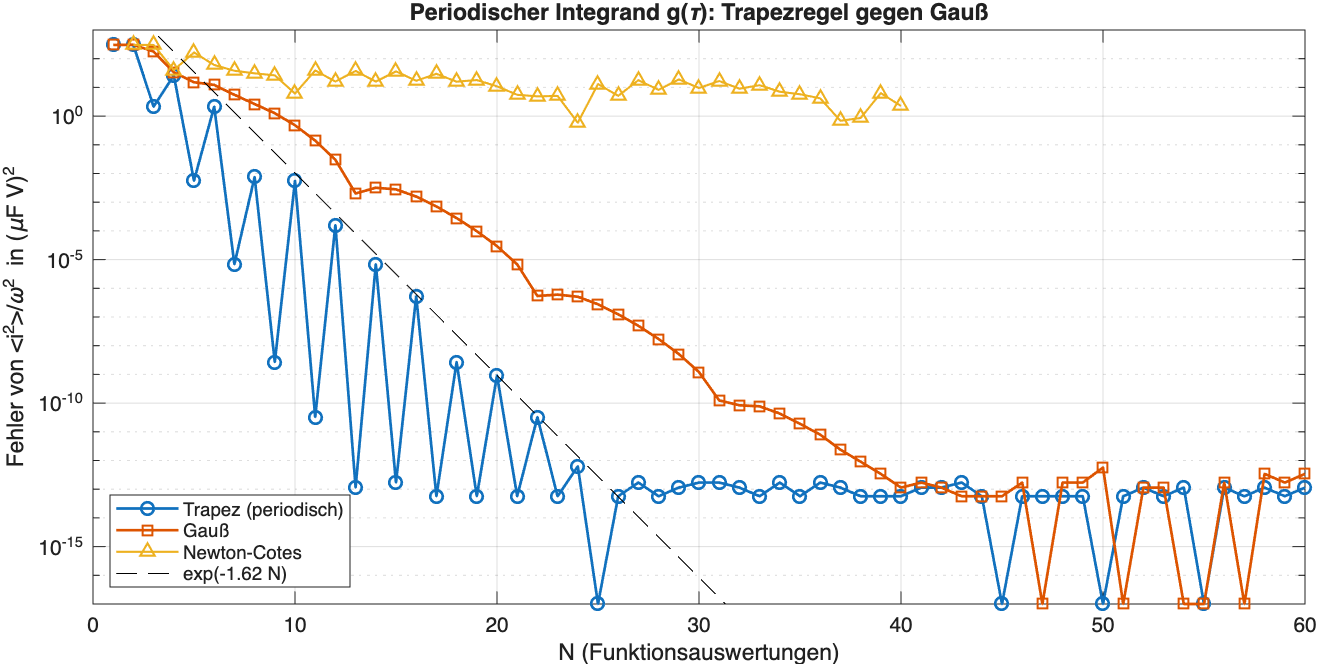
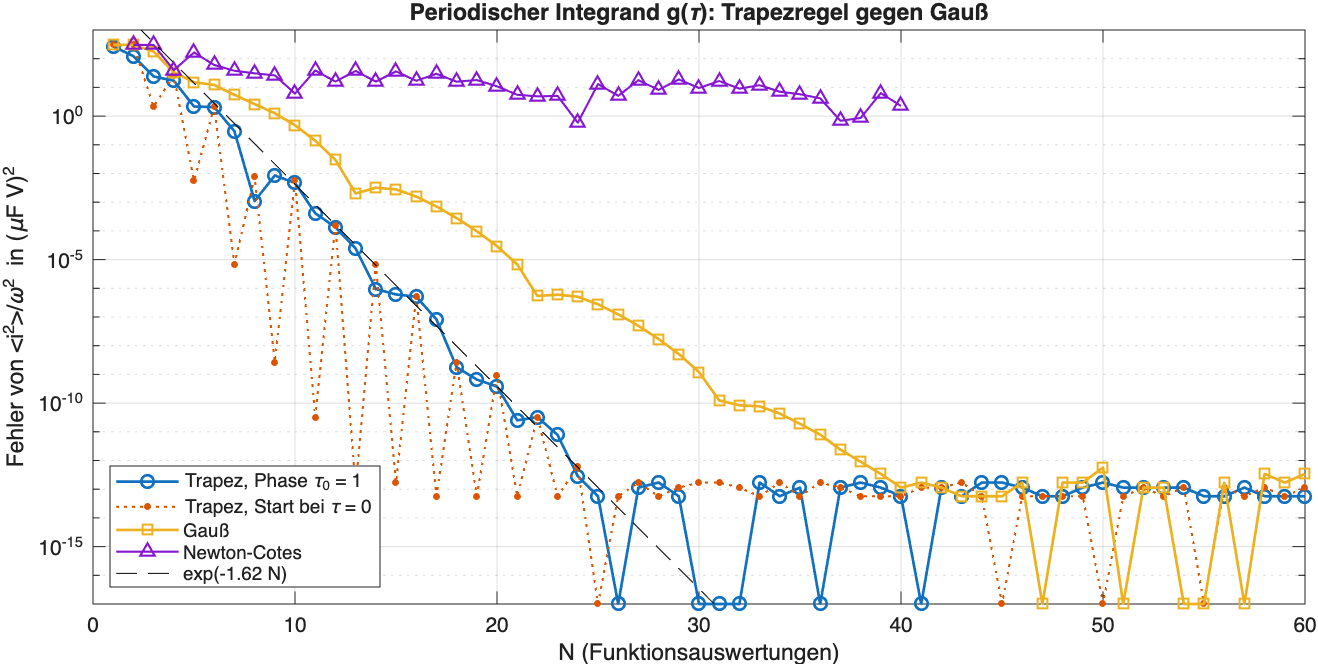
Aufgabe 5: Trapezregel mit allgemeiner Phase bewerten
g(tau) = G(sin tau) enthält nur cos(2m tau)- und sin((2m+1) tau)-Anteile.
Bei Abtastung ab tau = 0 sind die sin-Anteile unsichtbar, und für ungerades N
fällt der Fehler wie exp(-2sN) statt exp(-sN) (z. B. 3e-11 bei N = 11, aber
1.6e-4 bei N = 12). Die bisherige Aussage "Fehler < 1e-10 mit N = 11" war
daher ein Symmetrie-Artefakt.

- Bewertung mit Phase tau0 = 1, tau = 0 zusätzlich als eigene Kurve
- Fit der Rate für tau0 = 0, ungerade N: exp(-3.24 N), Theorie exp(-2sN) = exp(-3.245 N)
- "Fehler < tol" zählt jetzt ab dem N, ab dem der Fehler dauerhaft unter tol bleibt
- README und ERKLAERUNG_RU entsprechend korrigiert, Plot neu erzeugt

diff --git a/aufgabe5.m b/aufgabe5.m
@@ -20,12 +20,20 @@ Iref  = integral(g, 0, T, 'AbsTol', 1e-14, 'RelTol', 1e-13) / T;
 Iref2 = mean(g((0:4095)' * T/4096));
 fprintf('Referenz <i^2>/w^2 = %.12f  (Trapez N=4096: %.12f, Differenz %.1e)\n\n', Iref, Iref2, abs(Iref - Iref2));
 
+% Achtung Symmetrie: g(tau) = G(sin tau), daher enthält die Fourier-Reihe nur cos(2m tau) und
+% sin((2m+1) tau). Startet die Abtastung bei tau = 0, liegen alle Punkte in den Nullstellen der
+% sin-Anteile -> diese sind unsichtbar, und für ungerades N ist die erste "aliasende" Frequenz 2N
+% statt N (Fehler ~ exp(-2sN) statt exp(-sN)). Das ist ein Artefakt der Phase, kein Vorteil der
+% Methode. Für die Bewertung wird deshalb eine allgemeine Phase tau0 verwendet.
+tau0 = 1;
+
 Ns = 1:60;
-eT = nan(size(Ns));  eG = nan(size(Ns));  eN = nan(size(Ns));
+eT = nan(size(Ns));  eT0 = nan(size(Ns));  eG = nan(size(Ns));  eN = nan(size(Ns));
 for N = Ns
-    % Periodische Trapezregel: N Punkte tau_j = j*T/N, alle Gewichte T/N
+    % Periodische Trapezregel: N Punkte tau_j = tau0 + j*T/N, alle Gewichte T/N
     tau = (0:N-1)' * T / N;
-    eT(N) = abs(mean(g(tau)) - Iref);
+    eT(N)  = abs(mean(g(tau0 + tau)) - Iref);   % allgemeine Phase
+    eT0(N) = abs(mean(g(tau)) - Iref);          % Start bei tau = 0 (symmetrische Abtastung)
 
     % Gauß-Legendre mit N Punkten auf [0, T]
     [xh, wh] = gauss_formel(N);
@@ -46,31 +54,36 @@ s = min(abs(imag(tau_pol)));
 fprintf('Konvergenzstreifen: s = %.4f  ->  Trapezfehler ~ exp(-s*N): Faktor %.3f pro Punkt\n', s, exp(-s));
 
 % Gemessene Rate (Fit für N >= 14, oberhalb des Rundungsbodens; davor noch nicht asymptotisch)
-bereich = Ns(eT > 1e-12 & Ns >= 14);
+bereich = Ns(eT > 1e-12 & Ns >= 8);
 p = polyfit(bereich, log(eT(bereich)), 1);
-fprintf('gemessene Rate Trapez: exp(%.3f*N)  (Faktor %.3f pro Punkt)\n', p(1), exp(p(1)));
+fprintf('gemessene Rate Trapez (tau0 = %g):         exp(%.3f*N)  (Faktor %.3f pro Punkt)\n', tau0, p(1), exp(p(1)));
+bereich0 = Ns(eT0 > 1e-12 & Ns >= 5 & mod(Ns, 2) == 1);
+p0 = polyfit(bereich0, log(eT0(bereich0)), 1);
+fprintf('gemessene Rate Trapez (tau0 = 0, N ungerade): exp(%.3f*N)  (Theorie exp(-2sN) = exp(%.3f*N))\n', p0(1), -2*s);
+fprintf('Trapez tau0 = 0, N gerade: Fehler(2N) = Fehler(N ungerade), z. B. e(10) = %.2e, e(5) = %.2e\n', eT0(10), eT0(5));
 bereichG = Ns(eG > 1e-12 & Ns >= 14);
 pG = polyfit(bereichG, log(eG(bereichG)), 1);
 fprintf('gemessene Rate Gauß:   exp(%.3f*N)  (Faktor %.3f pro Punkt)\n\n', pG(1), exp(pG(1)));
 
-fprintf('  N | Trapez     | Gauß       | Newton-Cotes\n');
-for N = [4 8 12 16 20 24 28 32 40]
-    fprintf('%3d | %.3e | %.3e | %.3e\n', N, eT(N), eG(N), eN(N));
+fprintf('  N | Trapez     | Trapez t0=0 | Gauß       | Newton-Cotes\n');
+for N = [4 5 8 9 11 12 16 20 24 28 32 40]
+    fprintf('%3d | %.3e | %.3e   | %.3e | %.3e\n', N, eT(N), eT0(N), eG(N), eN(N));
 end
-% Punkte bis Fehler < 1e-10 / 1e-13
-for tolx = [1e-6 1e-10 1e-13]
-    nT = find(eT < tolx, 1);  nG = find(eG < tolx, 1);
-    fprintf('Fehler < %.0e:  Trapez N = %d,  Gauß N = %d\n', tolx, nT, nG);
+% Punkte, ab denen der Fehler dauerhaft unter tol bleibt
+ab = @(e, tolx) find(e >= tolx, 1, 'last') + 1;
+for tolx = [1e-6 1e-10 1e-12]
+    fprintf('Fehler dauerhaft < %.0e:  Trapez N = %d,  Gauß N = %d\n', tolx, ab(eT, tolx), ab(eG, tolx));
 end
 
 figure('Name', 'Aufgabe 5 (D)', 'Position', [100 100 1000 450]);
 semilogy(Ns, max(eT, 1e-17), 'o-', 'LineWidth', 1.3); hold on;
+semilogy(Ns, max(eT0, 1e-17), '.:', 'LineWidth', 1.0, 'MarkerSize', 10);
 semilogy(Ns, max(eG, 1e-17), 's-', 'LineWidth', 1.3);
 eNp = eN; eNp(~isnan(eN)) = max(eN(~isnan(eN)), 1e-17);
 semilogy(Ns, eNp, '^-', 'LineWidth', 1.0);
 semilogy(Ns, eT(20) * exp(-s*(Ns - 20)), 'k--');
 grid on; ylim([1e-17 1e3]);
 xlabel('N (Funktionsauswertungen)'); ylabel('Fehler von <i^2>/\omega^2  in (\muF V)^2');
-legend('Trapez (periodisch)', 'Gauß', 'Newton-Cotes', sprintf('exp(-%.2f N)', s), 'Location', 'southwest');
+legend(sprintf('Trapez, Phase \\tau_0 = %g', tau0), 'Trapez, Start bei \tau = 0', 'Gauß', 'Newton-Cotes', sprintf('exp(-%.2f N)', s), 'Location', 'southwest');
 title('Periodischer Integrand g(\tau): Trapezregel gegen Gauß');
 speichere_plot('a5_periodisch.png');

diff --git a/README.md b/README.md
@@ -33,4 +33,4 @@ Die Plots landen in `plots/`.
 - **Aufgabe 1/2:** Gauß: gemessener Grad = 2N−1, Σ|wᵢ| = 2 für alle N (alle wᵢ > 0). Newton-Cotes: Grad N (N ungerade) bzw. N−1 (N gerade), aber Σ|wᵢ| wächst exponentiell (N=20: 126, N=40: 1.6·10⁷), Vorzeichenwechsel in den Gewichten. Ab N≈19 (tol 1e-14) bzw. N≈34 (tol 1e-10) zeigen die Monome bei NC nur noch Rundungsverstärkung (ε·Σ|w|). Bei Gauß liegt der gemessene Grad für großes N *über* 2N−1: Der Fehler für x^(2N) ist ∝ 4⁻ᴺ und liegt unter der Rundungsgrenze, der Monomtest sieht ihn nicht.
 - **Aufgabe 3:** f₁ (glatt): Gauß N≥4–5 erreicht Maschinengenauigkeit, NC braucht N≈8–10 und wird für N>16 durch Σ|w| schlechter. f₂ (schmaler Peak bei 0.3, Pole bei 0.3 ± 0.05i): Gauß mit mittlerem N (N=16, M=3: 9·10⁻⁸); sehr große N und sehr kleine N sind schlechter, NC wird bei großem N unbrauchbar. f₃ (Knick bei π/5): algebraische Konvergenz O(h²) unabhängig von N, Fehler ~10⁻⁴–10⁻⁵ bleibt; feinere Unterteilung (großes M) hilft mehr als hohe Ordnung.
 - **Aufgabe 4:** W = 320·ln(1+144/64) = 377.1696 µJ. Mit 3 Gauß-Punkten: Quadraturfehler −0.48 µJ + Datenfehler 0.05 µJ, Worst-Case-Schranke für den Datenfehler 0.36 µJ → garantiert < 1 µJ (0.48 + 0.36 = 0.84). Newton-Cotes braucht 5, Simpson summiert 7 (garantiert), Trapez summiert 16 (garantiert, 12 real).
-- **Aufgabe 5 (D):** Trapezregel mit N Punkten über eine Periode konvergiert geometrisch, Faktor ≈ e^(−1.62) ≈ 0.2 pro Punkt (aus den Polen von C(v(τ)), Streifenbreite s = 1.62). Fehler < 10⁻¹⁰ mit N = 11 (Trapez) gegen N = 32 (Gauß).
+- **Aufgabe 5 (D):** Trapezregel mit N Punkten über eine Periode konvergiert geometrisch, Faktor ≈ e^(−1.62) ≈ 0.2 pro Punkt (aus den Polen von C(v(τ)), Streifenbreite s = 1.62; gemessen e^(−1.48 N) bei Phase τ₀ = 1). Fehler dauerhaft < 10⁻¹⁰ ab N = 21 (Trapez) gegen N = 32 (Gauß). Achtung: Startet die Abtastung bei τ = 0, sind wegen g(τ) = G(sin τ) die sin-Anteile der Fourier-Reihe unsichtbar, und für ungerades N fällt der Fehler wie e^(−2sN) (gemessen e^(−3.24 N), z. B. 3·10⁻¹¹ bei N = 11, aber 1.6·10⁻⁴ bei N = 12). Das ist ein Symmetrie-Artefakt, deshalb wird mit allgemeiner Phase bewertet.
